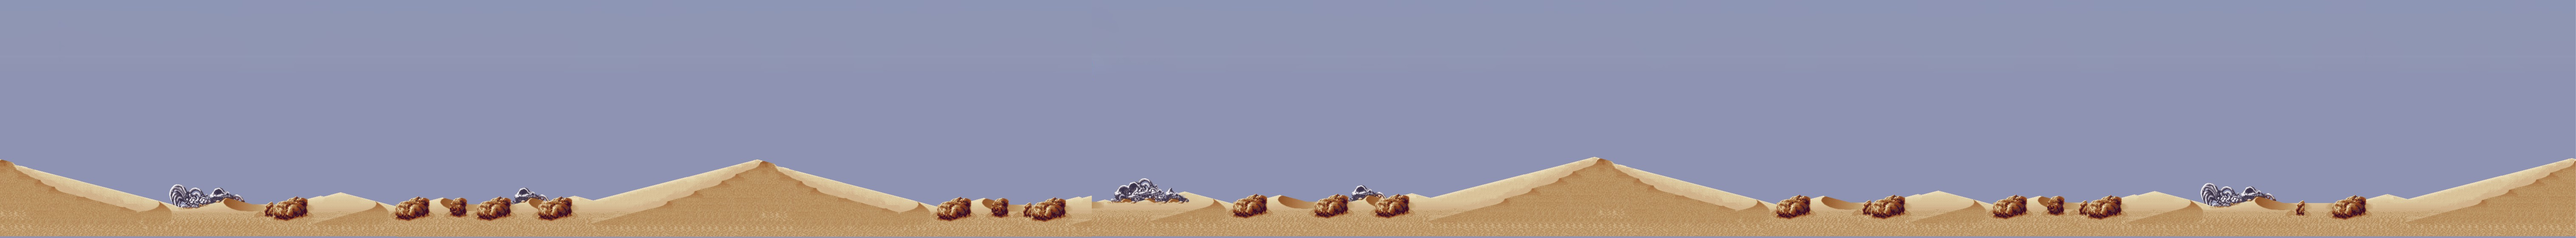
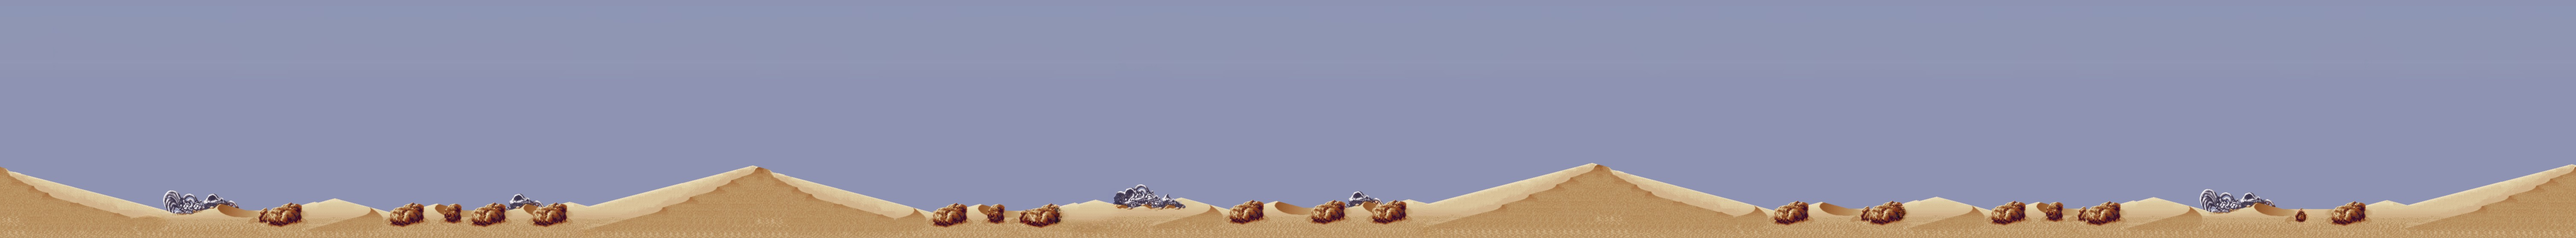
implementando nível 2

Changed region(s): [[0.0, 0.6417, 1.0, 1.0]]

diff --git a/game.c b/game.c
@@ -149,10 +149,49 @@ void state_playing() {
                     manage_enemy_wave(enemy4, player, font_text);
                 }
 
-
                 al_flip_display();
                 // Atualiza a onda
                 update_wave_level(player);
+                break;
+
+            case ALLEGRO_EVENT_KEY_DOWN:
+                key[event.keyboard.keycode] = 1;
+                break;
+
+            case ALLEGRO_EVENT_KEY_UP:
+                key[event.keyboard.keycode] = 0;
+                break;
+        }
+    }
+}
+
+void state_fase2() {
+    background_x = 0;
+    memset(key, 0, sizeof(key));
+
+    while (state == fase2) {
+        al_wait_for_event(queue, &event);
+
+        switch (event.type) {
+            case ALLEGRO_EVENT_DISPLAY_CLOSE:
+                state = end_game;
+                break;
+
+            case ALLEGRO_EVENT_TIMER:
+                al_clear_to_color(al_map_rgb(0, 0, 0));
+                animate_background(background2, &background_x, BACKGROUND_SPEED);
+
+                entry_identifyer(key, player);
+
+                // Aqui, você pode usar inimigos ou lógica diferentes para a Fase 2
+                if (wave_level < 13) {
+                    manage_enemy_wave(enemy3, player, font_text);
+                } else {
+                    manage_enemy_wave(enemy4, player, font_text);
+                }
+
+                al_flip_display();
+                update_wave_level(player); // Continua atualizando o nível
                 break;
 
             case ALLEGRO_EVENT_KEY_DOWN:
@@ -170,7 +209,7 @@ void state_playing() {
 void state_pause() {
 
     //AJEITAR TELA DE PAUSA
-    al_clear_to_color(al_map_rgb(0, 0, 0));
+    //al_clear_to_color(al_map_rgb(0, 0, 0));
     al_draw_text(font_title, al_map_rgb(255, 255, 255), SIZE_X / 2, SIZE_Y / 2 - 30,
                  ALLEGRO_ALIGN_CENTER, "Jogo Pausado");
     al_draw_text(font_text, al_map_rgb(255, 255, 255), SIZE_X / 2, SIZE_Y / 2 + 10,
@@ -219,17 +258,16 @@ void state_end_game() {
 
 
 void update_wave_level(player_ship* player) {
-    // Incrementa o nível da onda a cada 30 segundos
-    // if ((int)elapsed_time % 30 == 0) {
-    //     wave_level++;
-    // }
-
-    // Avança a onda após derrotar 10 inimigos
     if (player->enemies_defeated % 5 == 0 && player->enemies_defeated > 0) {
         wave_level++;
         player->enemies_defeated = 0; // Reinicia contagem
+
+        if (wave_level > 10) { // Supondo que a mudança ocorre após o nível 10
+            state = fase2;
+        }
     }
 }
+
 
 void entry_identifyer(unsigned char *key, player_ship *player){
     if (key[ALLEGRO_KEY_UP]) {
@@ -255,7 +293,7 @@ void manage_enemy_wave(enemy* enemy_wave, player_ship* player, ALLEGRO_FONT* fon
         update_bullets_enemy(enemy_wave->bullet);
         draw_bullets_enemy(enemy_wave, enemy_wave->bullet);
         if (check_collision(player, enemy_wave->bullet)) {
-            player->health_points -= 10;
+            player->health_points --;
             enemy_wave->bullet->active = false;  // Desativa a bala após o impacto
         }
     }

diff --git a/enemy.c b/enemy.c
@@ -3,6 +3,7 @@
 #include "game.h"
 #include "enemy.h"
 
+
 enemy *init_enemy(ALLEGRO_BITMAP* sheet, int type){
 
     enemy *enemy_active;
@@ -51,20 +52,23 @@ void update_enemy(enemy* enemy_active) {
     // Move o inimigo
     enemy_active->pos_x -= enemy_active->speed;
 
-    // Verifica se o inimigo deve atirar
-    static float shoot_timer = 0;
-    shoot_timer += 1.0 / 60.0; // Incrementa a cada frame (ajuste para o tempo real do jogo)
+    // Verifica se o inimigo é do tipo que atira (2 ou 4)
+    if (enemy_active->type == 1 || enemy_active->type == 2) {
+        static float shoot_timer = 0;
+        shoot_timer += 1.0 / 60.0; // Incrementa o temporizador baseado em 60 FPS
 
-    if (shoot_timer >= 1.0) { // Tiros a cada 1 segundo, ajuste conforme necessário
-        shoot_enemy(enemy_active);
-        shoot_timer = 0; // Reseta o temporizador
+        if (shoot_timer >= 1.0) { // Tiros a cada 1 segundo
+            shoot_enemy(enemy_active); // Função para criar um tiro vindo do inimigo
+            shoot_timer = 0; // Reseta o temporizador
+        }
     }
 
-    // Se o inimigo sair da tela, reposicionar
+    // Reposiciona o inimigo caso saia da tela
     if (enemy_active->pos_x + al_get_bitmap_width(enemy_active->sprite) < 0) {
-        spawn_enemy(enemy_active);
+        spawn_enemy(enemy_active); // Reposiciona o inimigo
     }
 }
+
 
 
 void draw_enemy(enemy *enemy_active){

diff --git a/main.c b/main.c
@@ -1,5 +1,3 @@
-
-																											
 #include "game.h"
 
 // Definição da variável global
@@ -16,6 +14,9 @@ int main(){
                 break;
             case playing:
                 state_playing();
+                break;
+            case fase2:
+                state_fase2();
                 break;
             case end_game:
                 state_end_game();

diff --git a/game.h b/game.h
@@ -14,7 +14,7 @@ extern float elapsed_time;
 
 extern unsigned char key[ALLEGRO_KEY_MAX];
 
-enum game_state {start, serving, playing, end_fase, end_game};
+enum game_state {start, serving, playing, fase2, end_fase, end_game};
 extern enum game_state state;
 
 void inicia_allegro(bool teste, char *descricao);

diff --git a/headers.h b/headers.h
@@ -10,6 +10,6 @@
 #include <stdio.h>
 #include <stdlib.h>
 #include <stdbool.h>
-
+#include <math.h>
 
 #endif 
